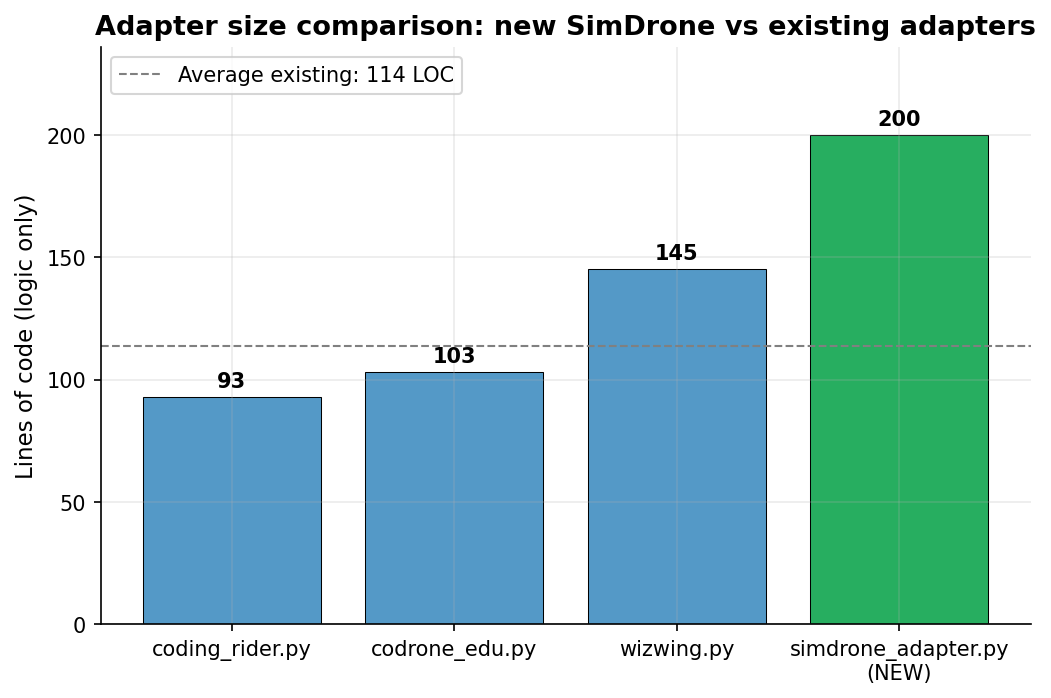
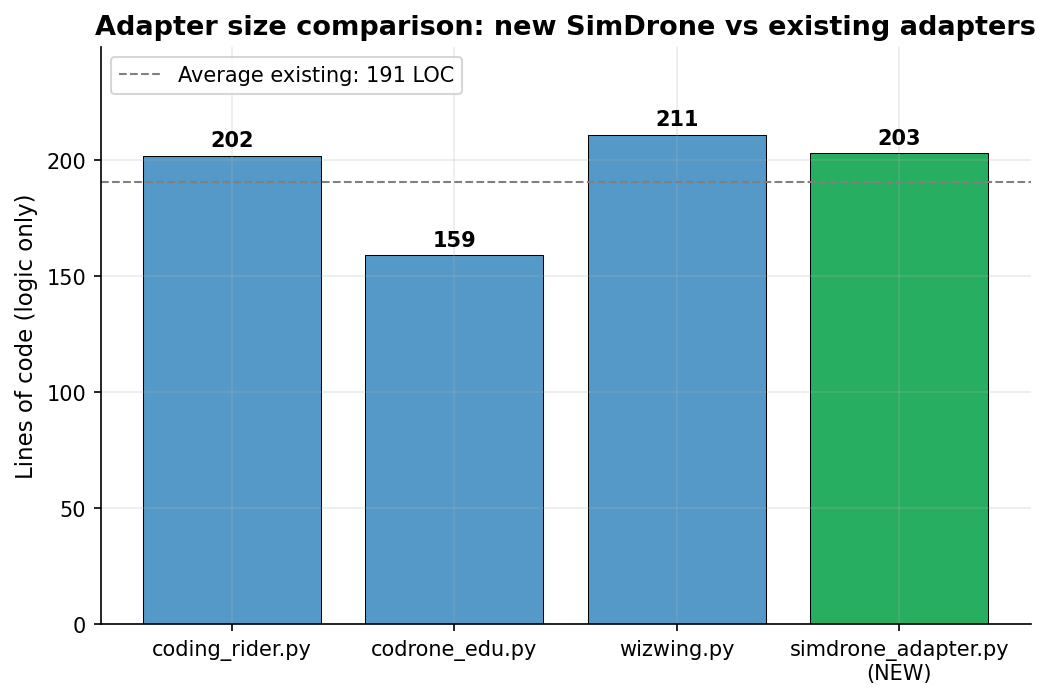
Fix stale hard-coded values in visualize_results.py
Three chart helpers contained hard-coded numbers that pre-dated the
recent adapter refactors and the v1.1 freeze, so the regenerated PNGs
silently displayed obsolete values even when the underlying CSVs were
current.

Hard-coded values found and replaced:

1) chart_extensibility_loc()
   Was: locs = [93, 103, 145, 200]
   These reflected the adapters BEFORE the CodingRider rewrite (against
   the verified SDK), the WIZWING rewrite (binary -> ASCII protocol),
   and the CoDrone EDU rewrite (codrone_edu.drone module).
   Now: locs are counted live from the adapter source files using the
   same definition used by eval_extensibility.py, so the chart always
   matches what the script measures.

2) chart_extensibility_effort()  and  the matching panel in the dashboard
   Was: hours = [8.00, 12.80]  and  "4.80 h saved (37.5%)"
   These were the v1.0 numbers (200 LOC SimDrone -> 8.00 h).  After
   adding get_height() the adapter grew to ~203 LOC, so the real
   numbers are 8.12 h / 12.92 h / 4.80 h saved (37.1%).
   Now: a new helper _read_extensibility_effort() reads the live
   values from extensibility_results.csv.

3) chart_extensibility_compliance()
   Was: abstract_methods 10/10  (hard-coded)
   This corresponded to the v1.0 interface, before get_height() was
   added.  The actual CSV reports 11/11.
   Now: every checkmark in the compliance chart is read from
   extensibility_results.csv (abstract_implemented, files_modified,
[…]

diff --git a/visualize_results.py b/visualize_results.py
@@ -12,7 +12,7 @@ from __future__ import annotations
 
 import csv
 from pathlib import Path
-from typing import Dict, List
+from typing import Dict, List, Tuple
 
 import matplotlib
 matplotlib.use("Agg")  # non-interactive backend for headless environments
@@ -71,10 +71,38 @@ def read_csv(path: Path) -> List[Dict[str, str]]:
 # 1. EXTENSIBILITY: LOC per adapter
 # =====================================================================
 
+def _count_loc_for_file(path: Path) -> int:
+    """Count non-blank, non-comment lines in a Python file.
+
+    Uses the same definition as ``eval_extensibility.py`` so the chart
+    values match the CSV.
+    """
+    if not path.is_file():
+        return 0
+    n = 0
+    for line in path.read_text(encoding="utf-8").splitlines():
+        s = line.strip()
+        if not s or s.startswith("#"):
+            continue
+        n += 1
+    return n
+
+
 def chart_extensibility_loc() -> Path:
+    """Live-counted LOC per adapter (reads the actual files at chart time)."""
+    adapters_dir = ROOT / "unified_drone" / "adapters"
+    files = [
+        adapters_dir / "coding_rider.py",
+        adapters_dir / "codrone_edu.py",
+        adapters_dir / "wizwing.py",
+        adapters_dir / "simdrone_adapter.py",
+    ]
+    labels = ["coding_rider.py", "codrone_edu.py", "wizwing.py",
+              "simdrone_adapter.py\n(NEW)"]
+    locs = [_count_loc_for_file(p) for p in files]
+
     fig, ax = plt.subplots(figsize=(8, 5))
-    adapters = ["coding_rider.py", "codrone_edu.py", "wizwing.py", "simdrone_adapter.py\n(NEW)"]
-    locs = [93, 103, 145, 200]
+    adapters = labels
     colors = [COLORS["existing"]] * 3 + [COLORS["new"]]
 
     bars = ax.bar(adapters, locs, color=colors, edgecolor="black", linewidth=0.5)
@@ -97,6 +125,28 @@ def chart_extensibility_loc() -> Path:
 # =====================================================================
 
 def chart_extensibility_compliance() -> Path:
+    # Read the actual compliance numbers from the CSV (no hard-coding)
+    rows = read_csv(ROOT / "extensibility_results.csv")
+    by_metric = {r["metric"]: r["value"] for r in rows}
+
+    # Parse "N/M" patterns for the methods/drones-responded checks
+    def _split_ratio(s: str, default: Tuple[int, int]) -> Tuple[int, int]:
+        try:
+            a, b = s.split("/")
+            return int(a), int(b)
+        except Exception:
+            return default
+
+    abs_actual, abs_expected = _split_ratio(by_metric.get("abstract_implemented", "11/11"), (11, 11))
+    files_modified = int(by_metric.get("files_modified", "0"))
+    registered = int(by_metric.get("registered_count", "4"))
+    subclass_ok = 1 if by_metric.get("subclass", "PASS") == "PASS" else 0
+    factory_ok = 1 if by_metric.get("factory_correct_type", "PASS") == "PASS" else 0
+    contains_ok = 1 if by_metric.get("registry_contains_simdrone", "PASS") == "PASS" else 0
+    workflow_ok = 1 if by_metric.get("three_drone_workflow", "PASS") == "PASS" else 0
+    originals_ok = 1 if by_metric.get("originals_intact", "PASS") == "PASS" else 0
+    drones_responded, _ = _split_ratio(by_metric.get("connect_ok", "4/4"), (4, 4))
+
     fig, ax = plt.subplots(figsize=(9, 5))
     checks = [
         "Files modified",
@@ -108,8 +158,10 @@ def chart_extensibility_compliance() -> Path:
         "Original 3-drone workflow",
         "Originals intact",
     ]
-    values = [0, 1, 10, 4, 1, 4, 1, 1]      # actuals
-    targets = [0, 1, 10, 4, 1, 4, 1, 1]     # expected
+    values  = [files_modified, subclass_ok, abs_actual, registered,
+               factory_ok, drones_responded, workflow_ok, originals_ok]
+    targets = [0,              1,           abs_expected, 4,
+               1,              4,                 1,            1]
     pass_flags = [v == t for v, t in zip(values, targets)]
 
     y = np.arange(len(checks))
@@ -138,19 +190,32 @@ def chart_extensibility_compliance() -> Path:
 # 3. EXTENSIBILITY: Effort comparison
 # =====================================================================
 
+def _read_extensibility_effort() -> Tuple[float, float, float, float]:
+    """Read hours/savings from extensibility_results.csv (live, not hard-coded)."""
+    rows = read_csv(ROOT / "extensibility_results.csv")
+    by_metric = {r["metric"]: r["value"] for r in rows}
+    h_ext = float(by_metric.get("implementation_hours", "8.0"))
+    h_non = float(by_metric.get("hypothetical_total_hours", "12.8"))
+    saved = float(by_metric.get("savings_hours", "4.8"))
+    saved_pct = float(by_metric.get("savings_pct", "37.5"))
+    return h_ext, h_non, saved, saved_pct
+
+
 def chart_extensibility_effort() -> Path:
+    h_ext, h_non, saved, saved_pct = _read_extensibility_effort()
     fig, ax = plt.subplots(figsize=(7, 5))
     labels = ["Extensible\n(framework)", "Non-extensible\n(hypothetical)"]
-    hours = [8.00, 12.80]
+    hours = [h_ext, h_non]
     colors = [COLORS["framework"], COLORS["native"]]
 
     bars = ax.bar(labels, hours, color=colors, edgecolor="black", linewidth=0.5, width=0.5)
     for bar, h in zip(bars, hours):
-        ax.text(bar.get_x() + bar.get_width() / 2, h + 0.2, f"{h:.1f} h",
+        ax.text(bar.get_x() + bar.get_width() / 2, h + 0.2, f"{h:.2f} h",
                 ha="center", fontweight="bold")
 
-    ax.annotate("4.80 h saved\n(37.5%)",
-                xy=(0.5, 9.5), xytext=(0.5, 11.0),
+    ax.annotate(f"{saved:.2f} h saved\n({saved_pct:.1f}%)",
+                xy=(0.5, (h_ext + h_non) / 2),
+                xytext=(0.5, h_non * 0.87),
                 ha="center", fontsize=11, fontweight="bold",
                 color=COLORS["saved"],
                 arrowprops=dict(arrowstyle="->", color=COLORS["saved"], lw=2))
@@ -542,18 +607,19 @@ def chart_dashboard() -> Path:
     ax.set_title("Implementation type per platform")
     ax.legend(fontsize=8)
 
-    # Panel 4: Extensibility hours
+    # Panel 4: Extensibility hours (live from CSV)
+    h_ext, h_non, _, _ = _read_extensibility_effort()
     ax = axes[1, 1]
     labels = ["Extensible\n(framework)", "Non-extensible\n(hypothetical)"]
-    hours = [8.00, 12.80]
+    hours = [h_ext, h_non]
     bars = ax.bar(labels, hours, color=[COLORS["framework"], COLORS["native"]],
                   edgecolor="black", linewidth=0.4, width=0.5)
     for bar, h in zip(bars, hours):
-        ax.text(bar.get_x() + bar.get_width() / 2, h + 0.2, f"{h:.1f} h",
+        ax.text(bar.get_x() + bar.get_width() / 2, h + 0.2, f"{h:.2f} h",
                 ha="center", fontweight="bold")
     ax.set_title("Effort to add a new drone platform")
     ax.set_ylabel("developer-hours")
-    ax.set_ylim(0, 15)
+    ax.set_ylim(0, max(hours) * 1.2)
 
     fig.tight_layout()
     return save(fig, "fig00_dashboard.png")
